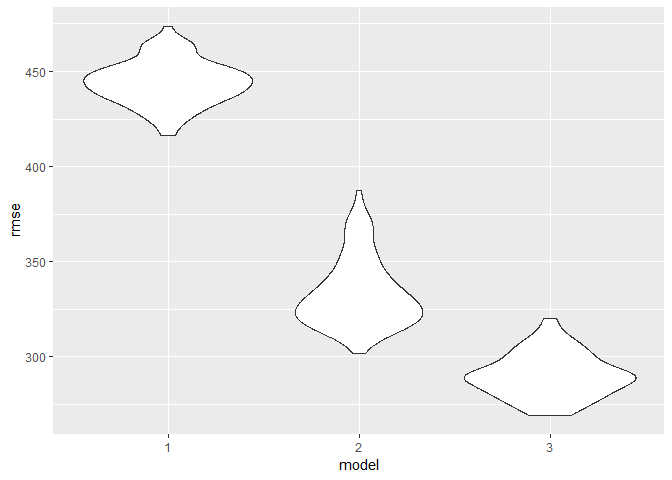
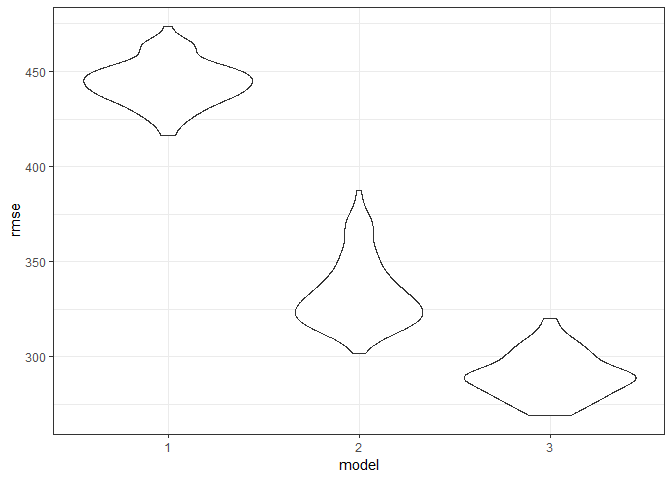
final edits

diff --git a/p8105_hw6_clc2229.md b/p8105_hw6_clc2229.md
@@ -5,7 +5,7 @@ November 16, 2018
 
 ### Problem 1
 
-The code chunk below puts the data in a format that is appropriate for modeling. For example, it ensures that predictors of interest are the appropriate data types and removes data from some cities that do not report some data.
+The code chunk below puts the data in a format that is appropriate for modeling. For example, it ensures that predictors of interest are the appropriate data types and removes data from some cities that do not report some data. Additionally, it creates a `city_state` variable (e.g. “Baltimore, MD”), and a binary variable indicating whether the homicide is solved.
 
 ``` r
 homicides = read.csv("./data/homicide-data.csv")
@@ -243,7 +243,7 @@ model_2 = lm(bwt ~ blength + gaweeks, data = birthweight)
 model_3 = lm(bwt ~ bhead + blength + babysex + bhead*blength*babysex + bhead*blength + bhead*babysex + blength+babysex, data = birthweight)
 ```
 
-The following code chunk compares the three linear models we just created using the `crossv_mc` function.
+The following code chunk compares the three linear models we just created using the `crossv_mc` function. We can see that the distribution of RMSE values is much higher for model 1 than it is for models 2 and 3. Model 3 (with head circumference, length, sex, and all interactions) appears to be the best model since it has the smallest RMSE values.
 
 ``` r
 cv_birthweight = 
@@ -263,7 +263,8 @@ cv_birthweight %>%
   gather(key = model, value = rmse) %>% 
   mutate(model = str_replace(model, "rmse_", ""),
          model = fct_inorder(model)) %>% 
-  ggplot(aes(x = model, y = rmse)) + geom_violin()
+  ggplot(aes(x = model, y = rmse)) + geom_violin() +
+  theme_bw()
 ```
 
 ![](p8105_hw6_clc2229_files/figure-markdown_github/unnamed-chunk-9-1.png)
